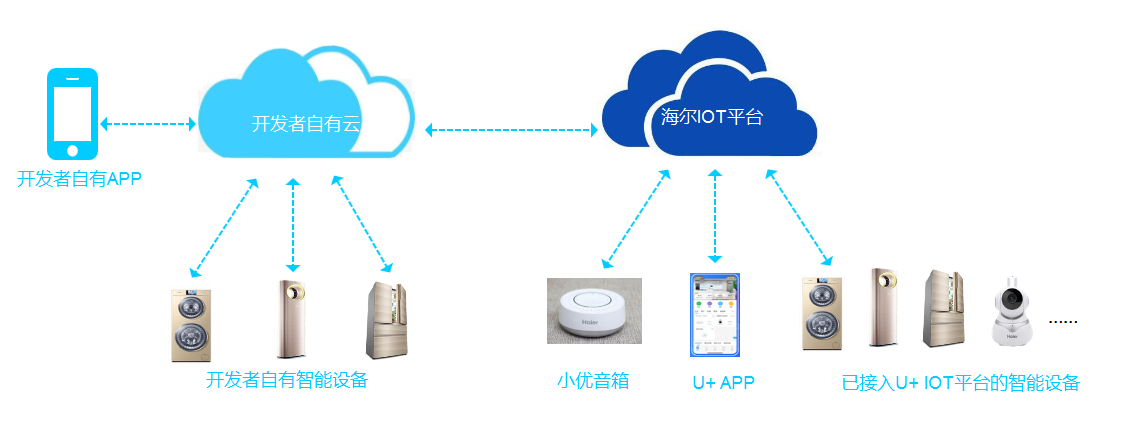
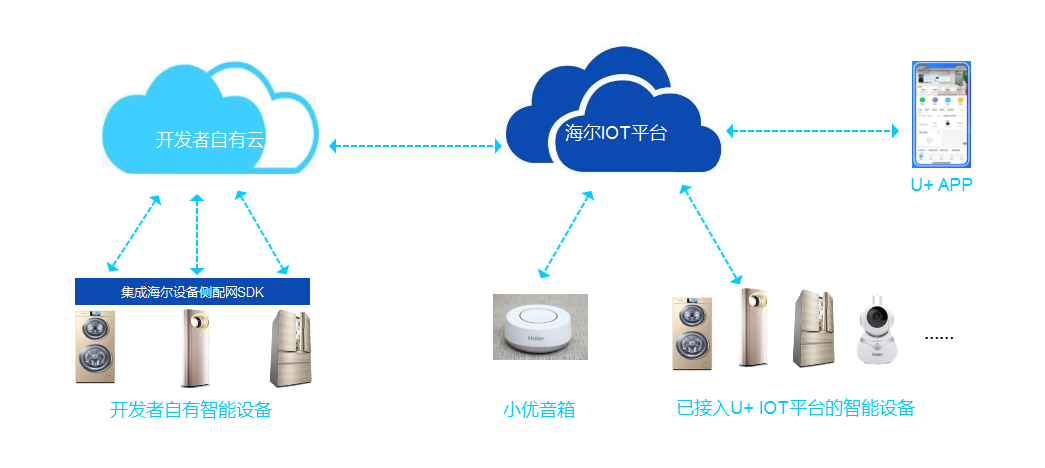
更新云设备接入指导
更新云设备接入指导

diff --git a/zh-cn/PlatformGuide/Cloud2Cloud.md b/zh-cn/PlatformGuide/Cloud2Cloud.md
@@ -1,4 +1,4 @@
-# 概述  
+### 概述  
 
 > 智能硬件以云对云方式接入海尔IoT平台，即开发者自有智能云与海尔IoT平台对接，其智能硬件连接自有智能云后，也间接实现了与海尔IoT平台的接入。    
 
@@ -10,9 +10,9 @@
 
 ![云设备接入方案][Access_plan]
 
-# 创建功能集  
+### 创建功能集  
 
-1、 在 [海极网][海极网] 注册企业账号并审核通过后，进入【产品中心】导航栏进行新的产品创建，点击【按功能集创建】按钮。  
+1、 在[海极网][Haigeek]注册企业账号并审核通过后，进入【产品中心】导航栏进行新的产品创建，点击【按功能集创建】按钮。  
 
 ![云设备创建功能集][Create_function]
 
@@ -20,9 +20,9 @@
 
 ![云设备创建功能集][Create_function2]
 
-#  定义功能集  
+###  定义功能集  
 
-> 对于各品类的产品，平台已制定了标准的产品功能定义又称功能模板；且对于标准的功能定义，小优也在语义层面支持语音控制。
+> 对于各品类的产品，平台已制定了标准的产品功能定义又称功能模板；且对于标准的功能定义，小优音箱也在语义层面支持语音控制。
 产品功能定义，描述了产品具有哪些功能，包括基础功能、高级功能、告警、其他功能。 本文截图以创建智能灯具为例。  
 
 
@@ -33,32 +33,51 @@
 告警|主要用于设备向云端上报组合数据，可支持同时上报多个属性（参数），如洗衣完成
 其他功能|主要用于设备向云端上报组合数据，可支持同时上报多个属性（参数），服务大数据 
 
+注：高级功能，平台默认需要实现的组命令：getAllProperty(查询所有属性)、getAllAlarm(查询报警)、stopCurrentAlarm(停止报警)  
 
+#### 功能集添加 
 
-1、 通过“创建功能集”点击【确定】按钮后会弹出“产品选择功能”对话框页面，选择相应的功能模板，选择产品要实现的功能，点击【添加选中功能】按钮。  
+通过“创建功能集”点击【确定】按钮后会弹出“产品选择功能”对话框页面，选择相应的功能模板，选择产品要实现的功能，点击【添加选中功能】按钮。  
 
 
 ![云设备功能集定义][Function_set]
 
 
-# 设备开发/配置参数
-
-# 创建产品
-
-# 接入优家
-
-## 配网引导配置
-
-## APP界面配置
-
-## 场景功能配置
-
-# 拓展功能配置
+#### 功能集配置  
 
 
-# 适配平台协议
+通过【添加选中功能】进入“功能集配置”页面，可按照标准或自定义配置产品的功能。
 
-# 上线产品   
+平台会根据产品的类型默认配置好标准功能（可点击图中【标准服务】按钮查看）。默认配置的标准功能包括必选和非必选，开发者可通过【自定义功能】来自定义增添新的功能，开发者也可对部分功能并进行编辑。   
+
+功能类型|编辑说明|备注
+:-|:-:|:-
+必选标准功能|默认配置；不可删除，不可编辑|即“高级功能”里getAllProperty、getAllAlarm、stopCurrentAlarm
+非必选标准功能|默认配置；可删除，可编辑|无
+自定义功能|自定义功能；可删除，可编辑|无
+
+
+
+### 设备开发/配置参数  
+
+
+
+
+### 创建产品
+
+### 接入优家
+
+#### 配网引导配置
+
+#### APP界面配置
+
+#### 场景功能配置
+
+### 拓展功能配置
+
+### 适配平台协议
+
+### 上线产品   
 
 
 
@@ -67,4 +86,4 @@
 [Create_function]:_media/Link/create_function.png  
 [Create_function2]:_media/Link/create_function2.png  
 [Function_set]:_media/Link/function_set.png  
-[海极网][https://www.haigeek.com/web/pages/haigeek.html] 
+[Haigeek]:[https://www.haigeek.com/web/pages/haigeek.html] 
